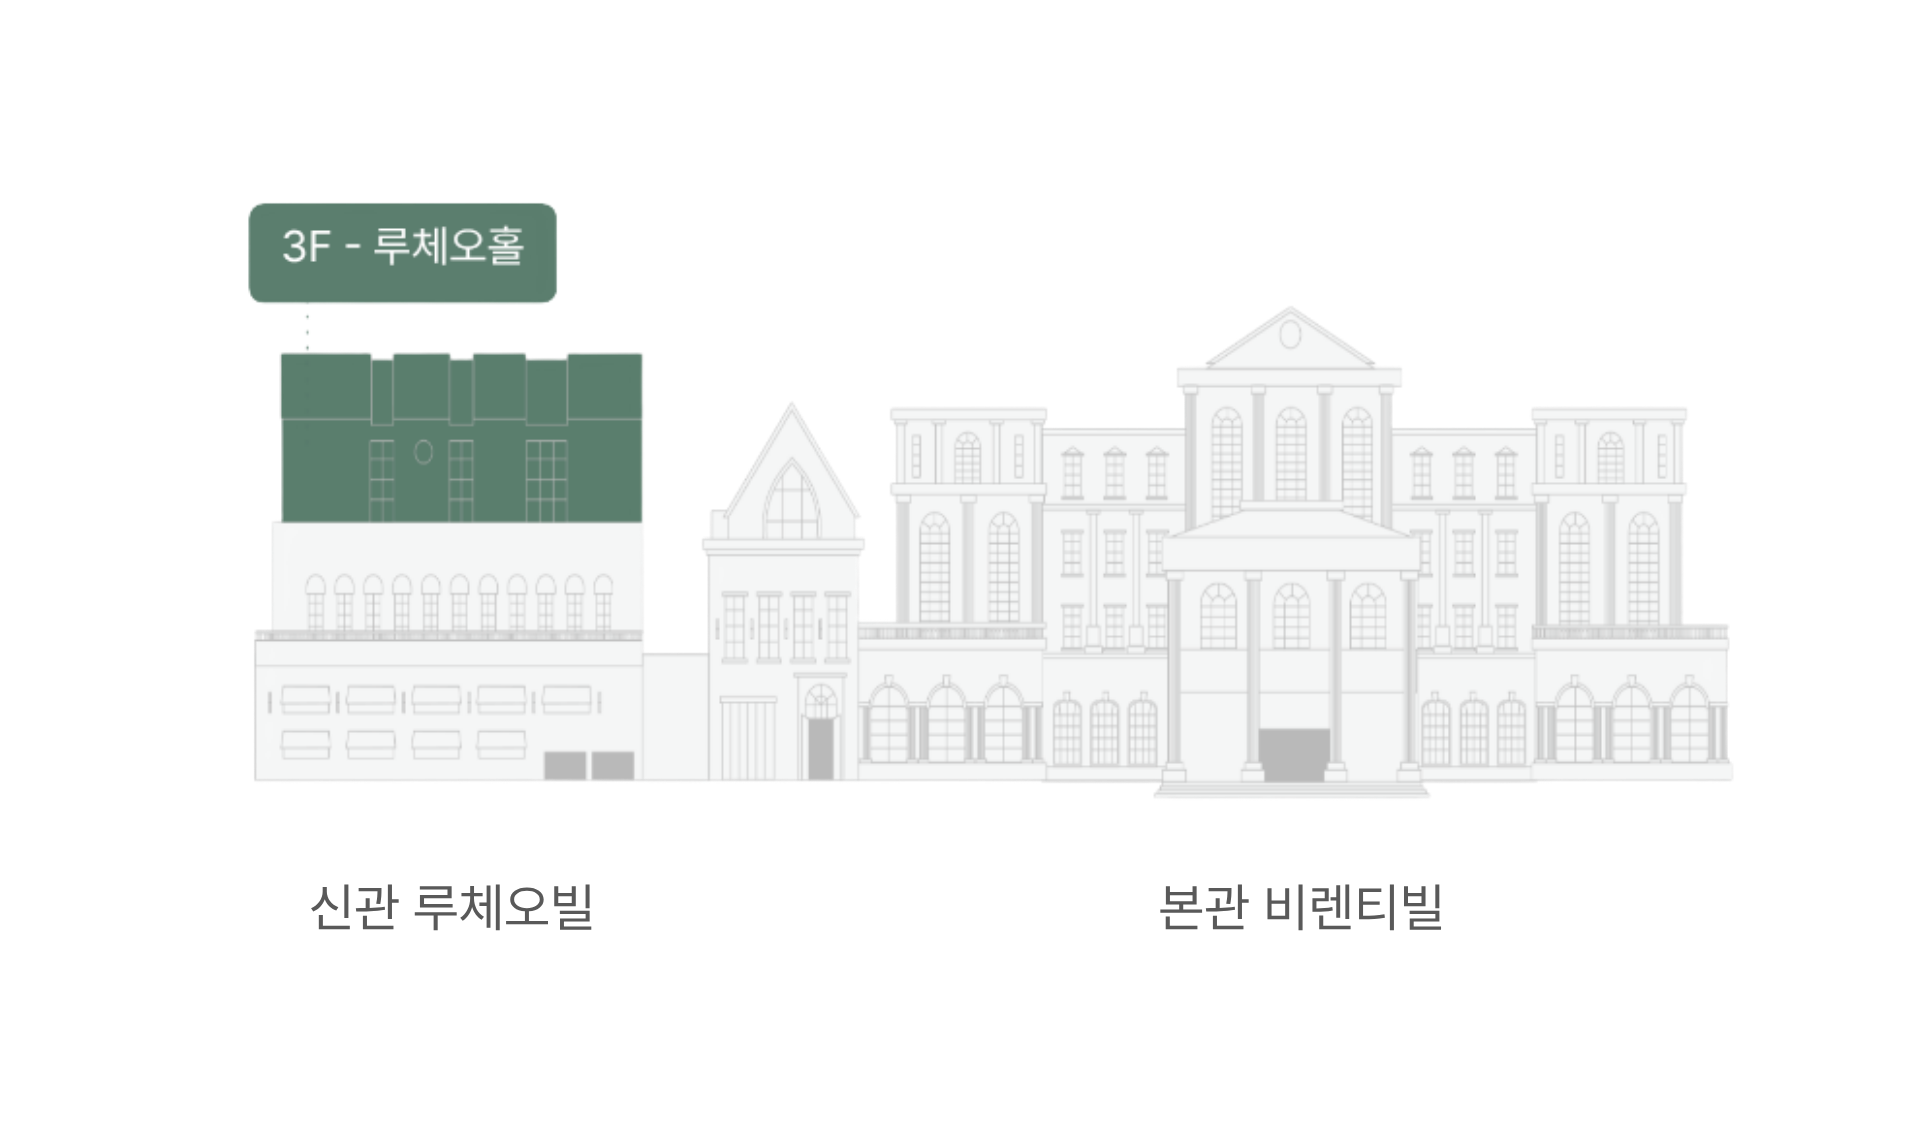
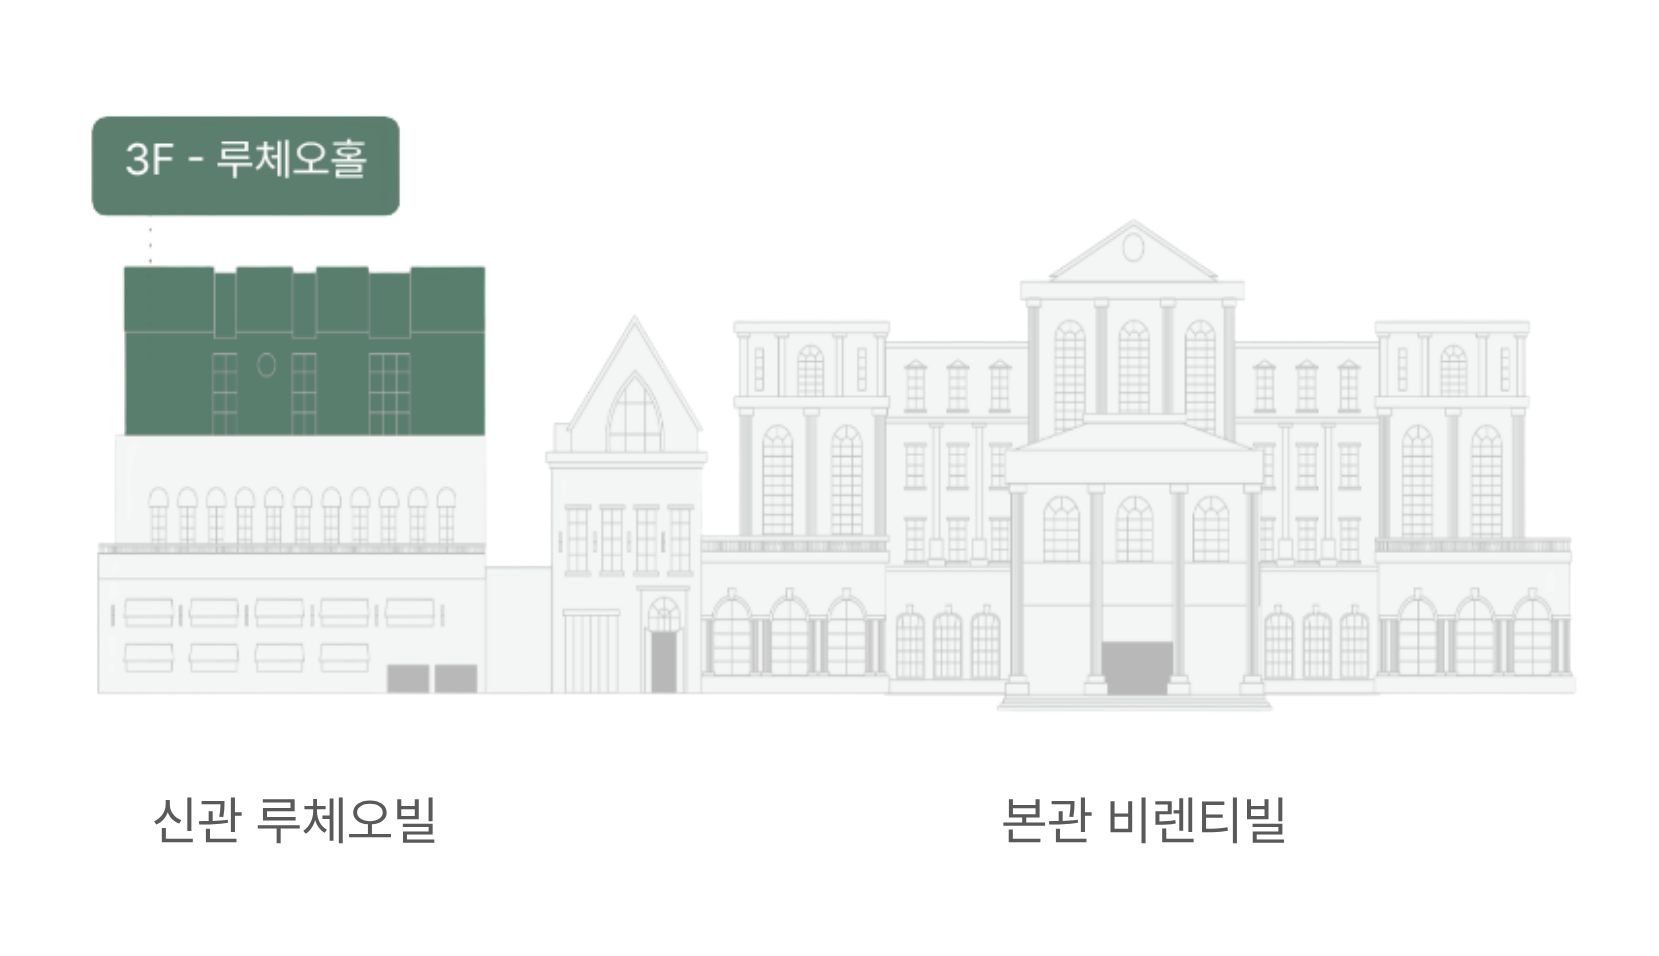
예식홀 위치안내도 이미지 파일명 수정 (프레임2 -> 홀위치안내도)

diff --git a/index.html b/index.html
@@ -106,7 +106,7 @@
   <section class="section">
     <p class="section__label fade-title">예식홀 위치안내</p>
     <div class="fade-up">
-      <img src="images/프레임2.png" alt="예식홀 위치 안내" class="venue-guide-img">
+      <img src="images/홀위치안내도.png" alt="예식홀 위치 안내" class="venue-guide-img">
     </div>
   </section>
 
